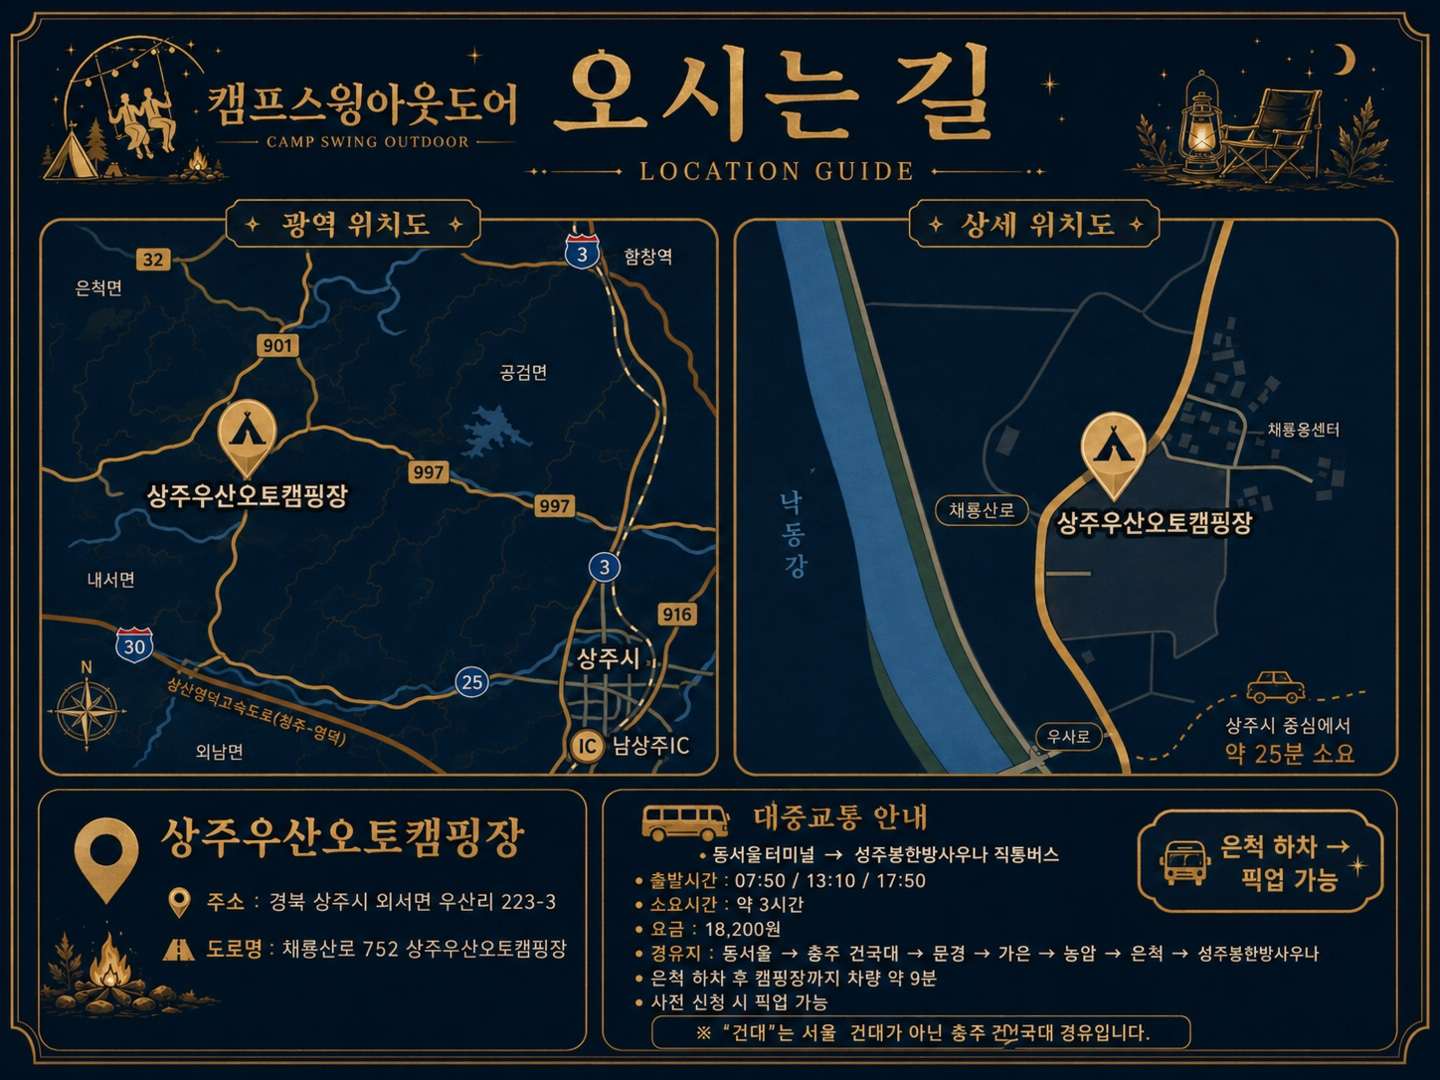
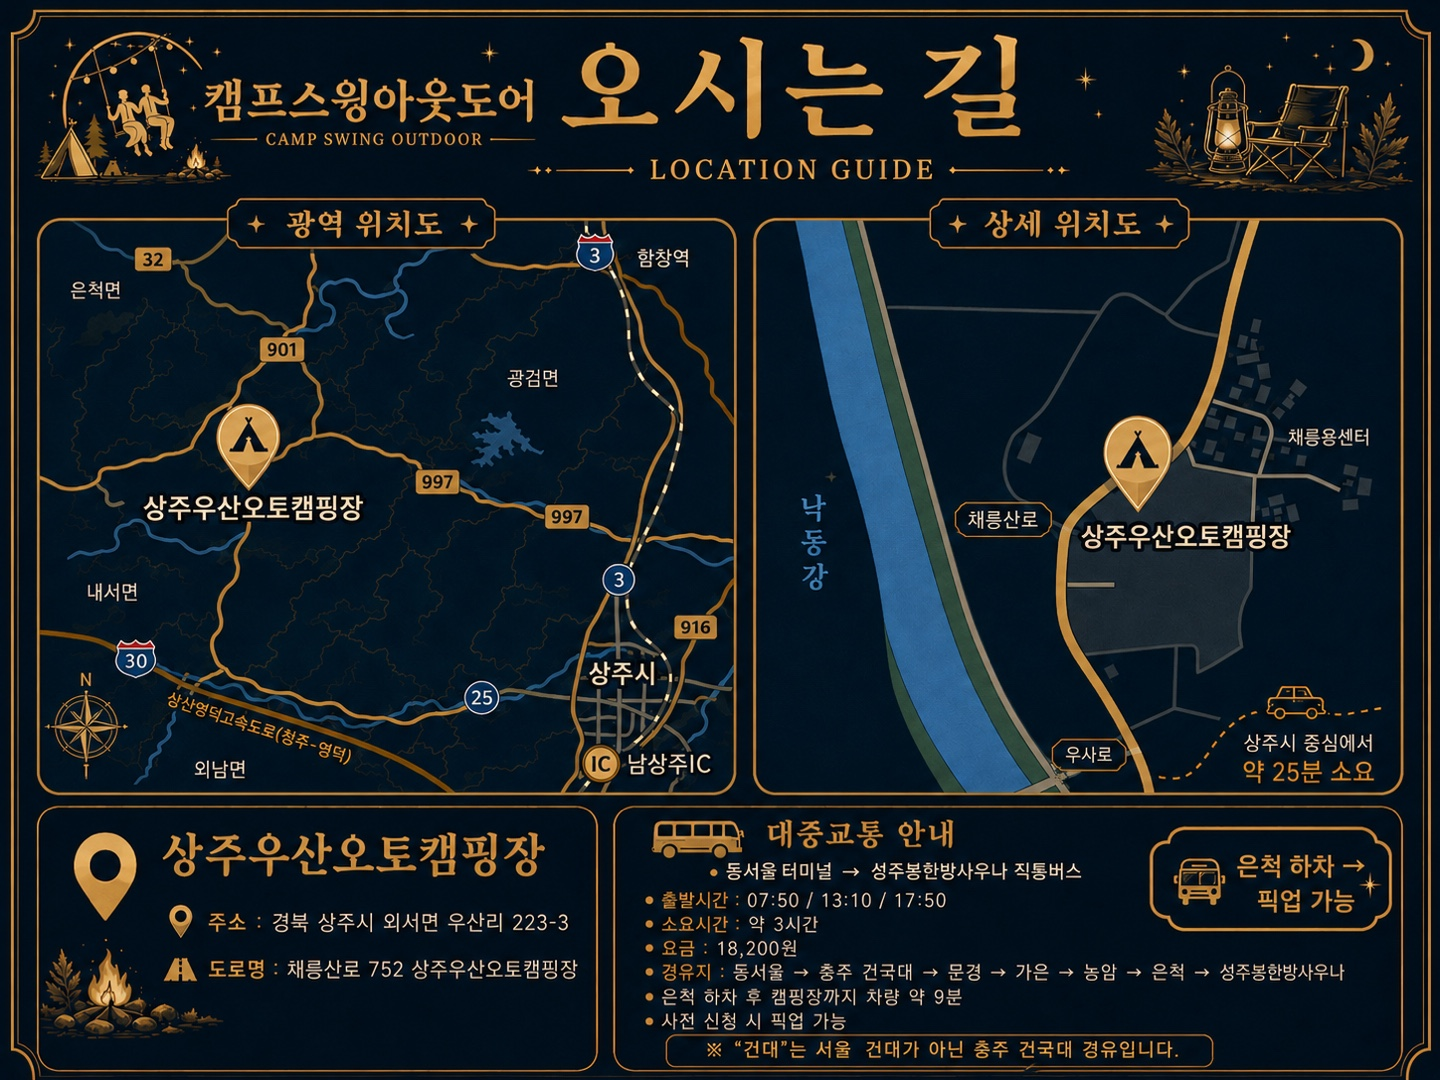
:art: 오시는 길 지도 이미지 교체 (location-map-2)
event/location.html 이 location-map-2.jpeg 를 참조하도록 변경하고
신규/갱신 지도 이미지 추가.

Changed region(s): [[0.0, 0.0, 1.0, 1.0], [0.75, 0.0611, 0.7812, 0.0917]]

diff --git a/src/main/resources/templates/event/location.html b/src/main/resources/templates/event/location.html
@@ -17,7 +17,7 @@
                 th:text="${pageMeta?.h1}">오시는 길</h1>
 
             <!-- 지도 이미지 -->
-            <img th:src="@{/img/location-map.jpeg}"
+            <img th:src="@{/img/location-map-2.jpeg}"
                  alt="상주우산오토캠핑장 위치 안내"
                  class="w-full rounded-lg border border-gold/30 shadow-card mb-10" />
 